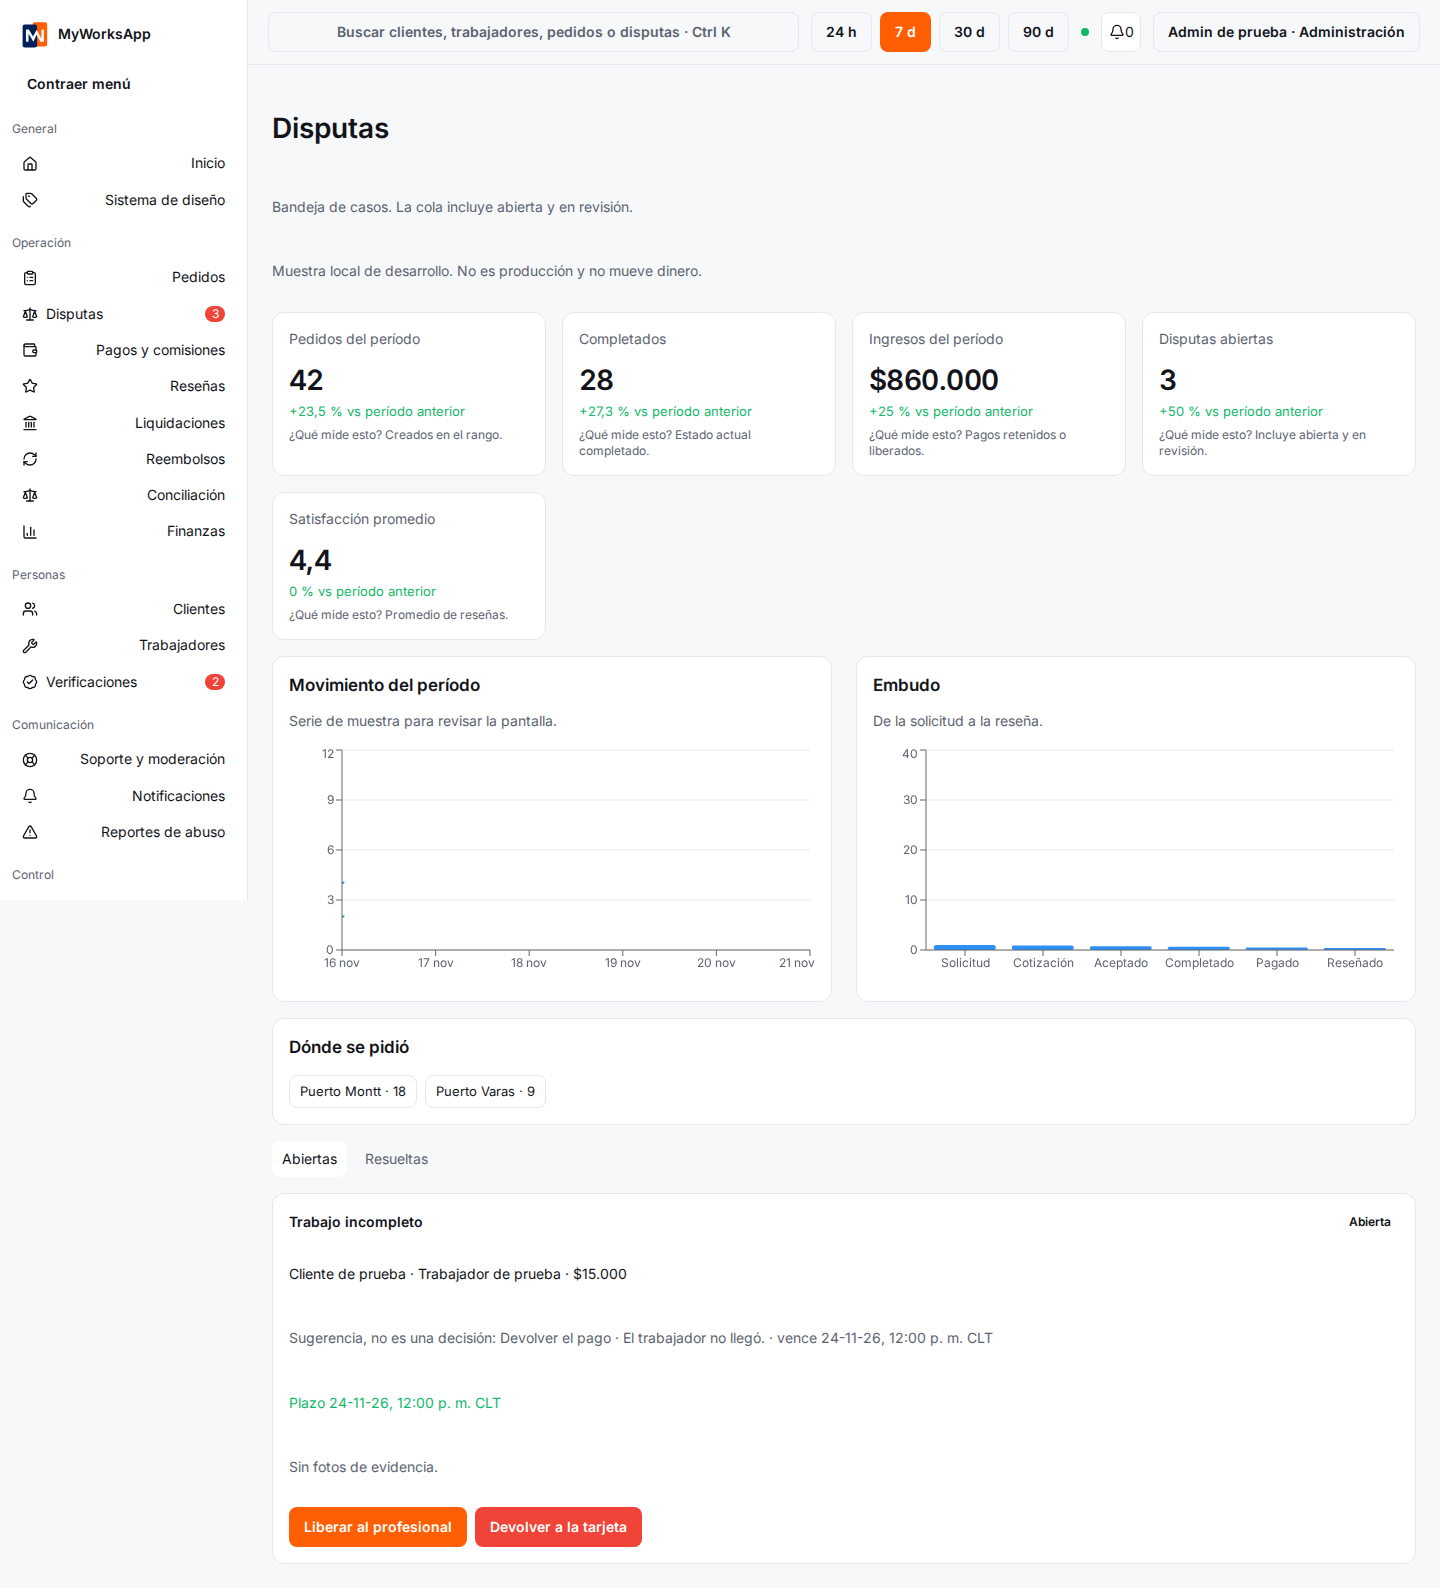
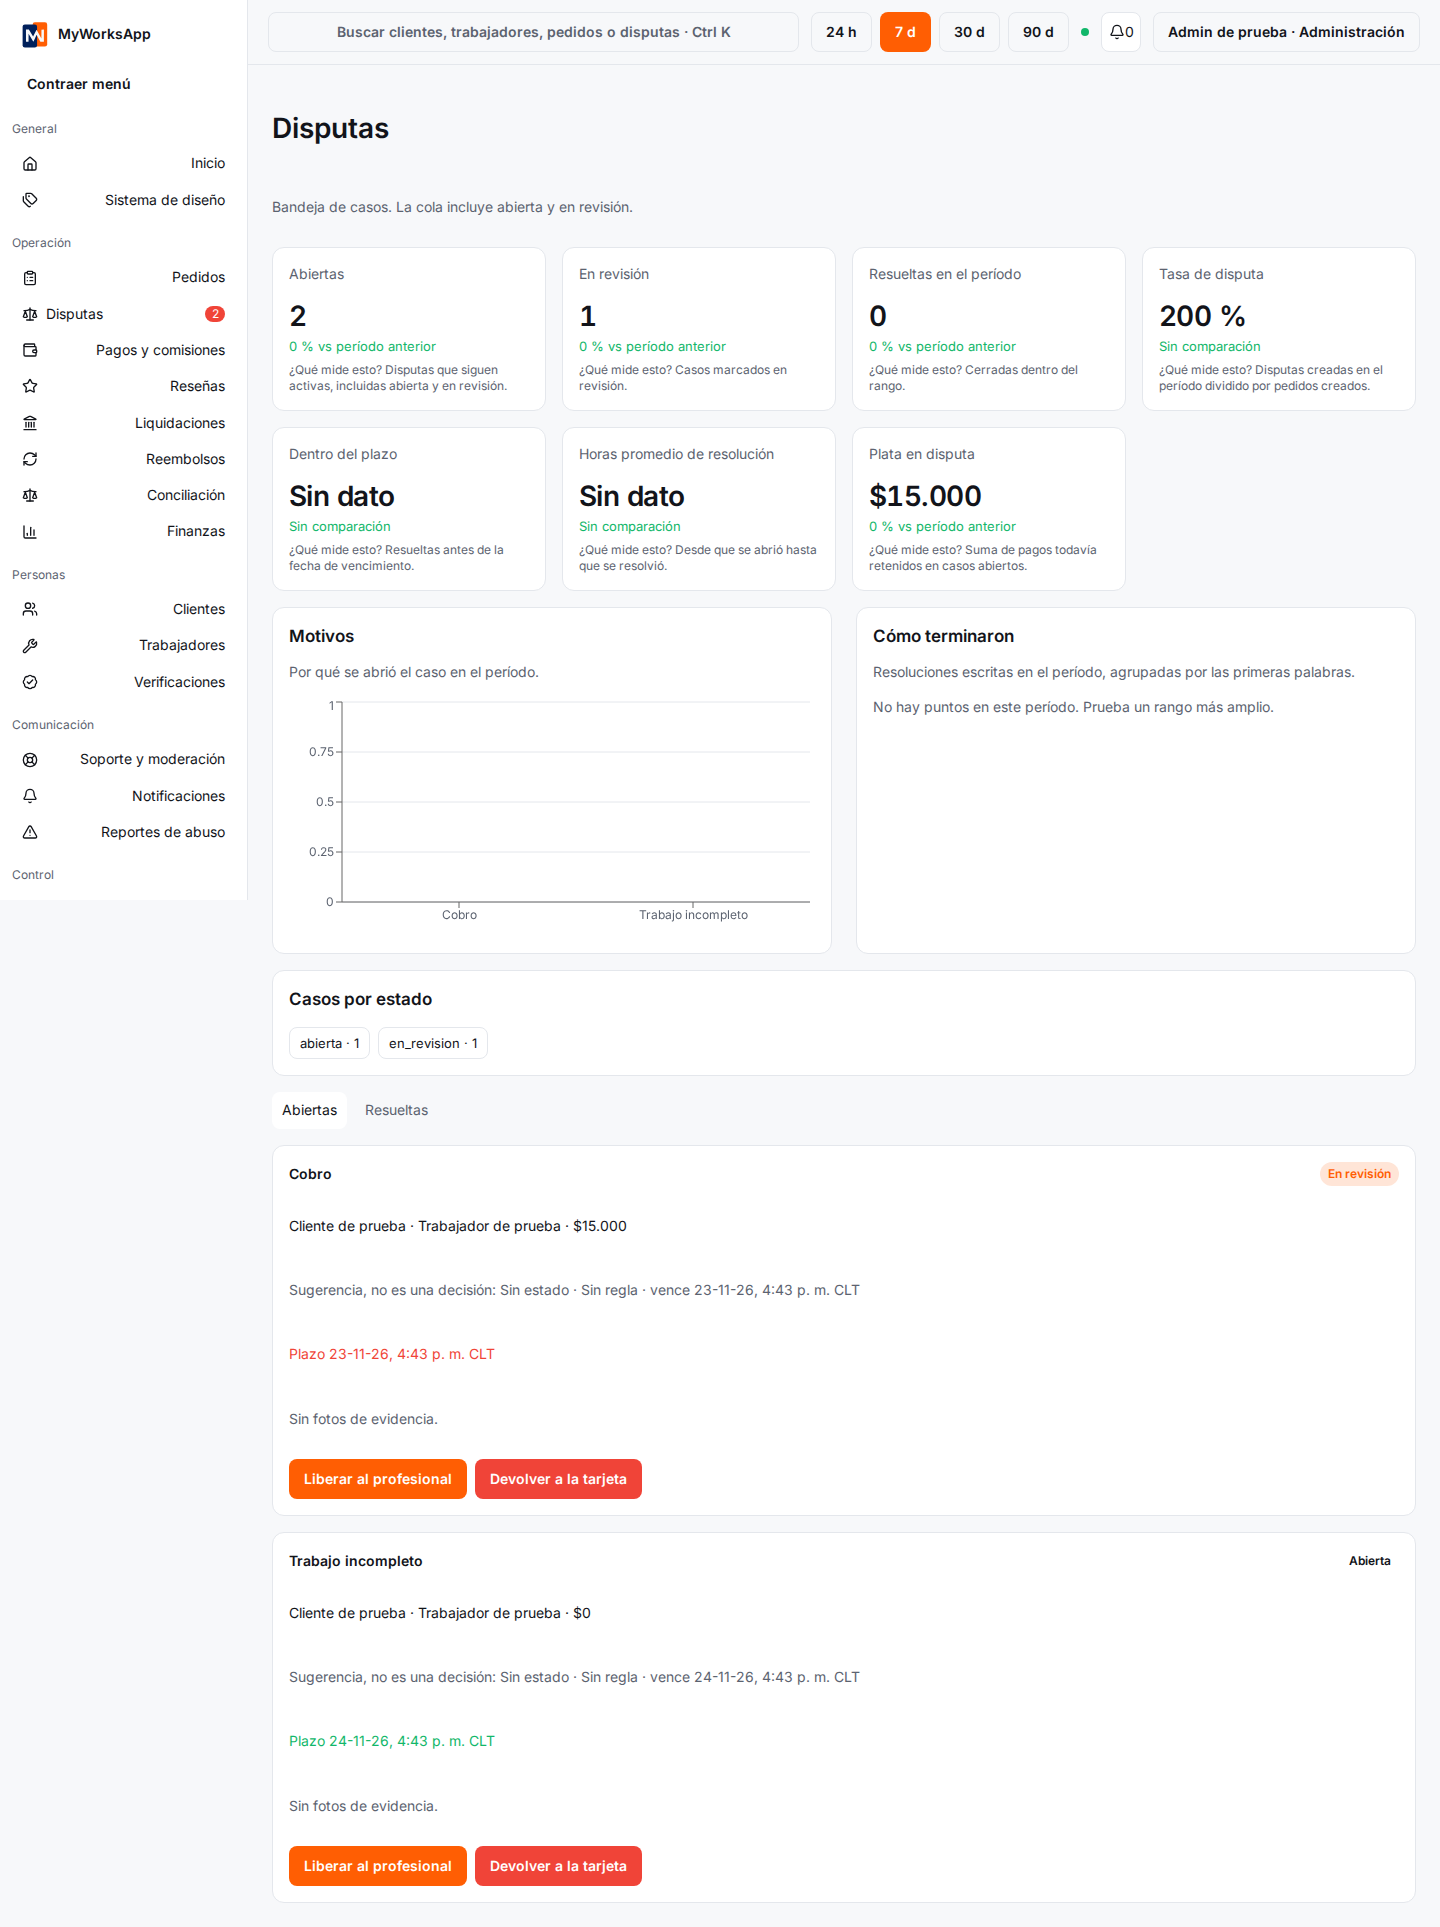
test(desktop): prueba la consola contra GoTrue y PostgREST
El admin entra con TOTP y sin captura local.
Las capturas claro y oscuro salen de esa sesión.

diff --git a/MyWorksAppProyect/myworksapp_desktop/e2e/real.spec.ts b/MyWorksAppProyect/myworksapp_desktop/e2e/real.spec.ts
@@ -1,0 +1,112 @@
+import { createHmac } from 'node:crypto';
+import { mkdir } from 'node:fs/promises';
+import AxeBuilder from '@axe-core/playwright';
+import { expect, test } from '@playwright/test';
+
+const DIR = '/agent/repos/MyWorksAppProyect/MyWorksAppProyect/docs/pruebas/consola-premium/capturas';
+
+const SECCIONES = [
+  ['/resumen', 'inicio'],
+  ['/pedidos', 'pedidos'],
+  ['/disputas', 'disputas'],
+  ['/resenas', 'resenas'],
+  ['/usuarios', 'clientes'],
+  ['/profesionales', 'trabajadores'],
+  ['/verificaciones', 'verificaciones'],
+  ['/pagos', 'pagos'],
+  ['/tickets', 'soporte'],
+  ['/notificaciones', 'notificaciones'],
+  ['/seguridad', 'seguridad'],
+  ['/informes', 'reportes'],
+  ['/auditoria', 'auditoria'],
+  ['/ajustes', 'configuracion'],
+  ['/sistema-diseno', 'sistema-diseno'],
+] as const;
+
+test.use({ video: 'off', viewport: { width: 1440, height: 900 } });
+
+test('la sesión real con aal2 recorre reseñas, pedidos, disputas y pagos', async ({ page }) => {
+  await mkdir(DIR, { recursive: true });
+  let secreto = '';
+  page.on('response', async (response) => {
+    if (!response.url().includes('/factors') || response.request().method() !== 'POST') return;
+    const body = await response.json().catch(() => null) as { totp?: { secret?: string } } | null;
+    if (body?.totp?.secret) secreto = body.totp.secret;
+  });
+
+  await page.goto('/');
+  await expect(page).not.toHaveURL(/captura=local/);
+  await page.locator('#login-email').fill('admin.consola@local.test');
+  await page.locator('#login-password').fill('Admin1234');
+  await page.getByRole('button', { name: 'Entrar' }).click();
+  await expect(page.getByRole('heading', { name: 'Segundo factor' })).toBeVisible();
+  await expect.poll(() => secreto, { timeout: 15_000 }).not.toBe('');
+  await page.getByLabel('Código de 6 dígitos').fill(codigoTotp(secreto));
+  await page.getByRole('button', { name: 'Entrar' }).click();
+  await expect(page.getByRole('heading', { name: 'Inicio' })).toBeVisible();
+  await expect(page.getByText('Muestra local de desarrollo')).toHaveCount(0);
+
+  for (const tema of ['dark', 'light'] as const) {
+    if (tema === 'light') {
+      await page.getByRole('button', { name: /Admin de prueba/ }).click();
+      await page.getByRole('button', { name: 'Tema claro' }).click();
+    }
+    for (const [ruta, nombre] of SECCIONES) {
+      await page.goto(ruta);
+      await expect(page.locator('h1').first()).toBeVisible();
+      await expect(page).not.toHaveURL(/captura/);
+      await page.screenshot({ path: `${DIR}/${nombre}-${tema}.png`, fullPage: true });
+    }
+  }
+
+  await page.goto('/resenas');
+  await page.getByRole('tab', { name: 'Negativas', exact: true }).click();
+  await expect(page).toHaveURL(/filtro=negativas/);
+  await expect(page.getByText('No llegó y el trato fue una amenaza')).toBeVisible();
+  await page.getByRole('button', { name: 'Ver detalle' }).click();
+  await expect(page.getByRole('heading', { name: 'Detalle de la reseña' })).toBeVisible();
+  await page.getByRole('button', { name: 'Cerrar' }).click();
+
+  await page.goto('/pedidos');
+  await page.getByLabel('Buscar en la tabla').fill('prueba');
+  await expect(page.getByText('Calle de prueba 10')).toBeVisible();
+
+  await page.goto('/disputas');
+  await expect(page.getByRole('strong').filter({ hasText: 'Trabajo incompleto' })).toBeVisible();
+  await page.getByRole('button', { name: 'Devolver a la tarjeta' }).first().click();
+  await page.getByLabel('Motivo (mínimo 10 caracteres)').fill('Prueba local sin pasarela de dinero');
+  await page.getByLabel('Frase de confirmación').fill('REEMBOLSAR');
+  await page.getByRole('button', { name: 'Confirmar' }).click();
+  await expect(page.getByText('Disputa actualizada.')).toHaveCount(0);
+  await expect(page.getByText(/No se pudo|no está|Failed|fetch/i).first()).toBeVisible();
+  await page.getByRole('button', { name: 'Cancelar' }).click();
+
+  await page.goto('/pagos');
+  await expect(page.getByRole('heading', { name: 'Pagos y comisiones' })).toBeVisible();
+  const liberar = page.getByRole('button', { name: 'Liberar' });
+  if (await liberar.count()) {
+    await liberar.first().click();
+    await page.getByLabel('Motivo (mínimo 10 caracteres)').fill('Prueba local sin liberar dinero');
+    await page.getByLabel('Frase de confirmación').fill('LIBERAR');
+    await page.getByRole('button', { name: 'Cancelar' }).click();
+    await expect(page.getByText('Pago liberado.')).toHaveCount(0);
+  }
+
+  const axe = await new AxeBuilder({ page }).analyze();
+  expect(axe.violations.filter((item) => item.impact === 'critical')).toEqual([]);
+});
+
+function codigoTotp(secret: string): string {
+  const alfabeto = 'ABCDEFGHIJKLMNOPQRSTUVWXYZ234567';
+  const limpio = secret.replace(/=+$/g, '').toUpperCase().replace(/[^A-Z2-7]/g, '');
+  let bits = '';
+  for (const caracter of limpio) bits += alfabeto.indexOf(caracter).toString(2).padStart(5, '0');
+  const bytes: number[] = [];
+  for (let i = 0; i + 8 <= bits.length; i += 8) bytes.push(Number.parseInt(bits.slice(i, i + 8), 2));
+  const contador = Buffer.alloc(8);
+  contador.writeBigUInt64BE(BigInt(Math.floor(Date.now() / 30_000)));
+  const hmac = createHmac('sha1', Buffer.from(bytes)).update(contador).digest();
+  const offset = hmac[hmac.length - 1] & 0xf;
+  const codigo = ((hmac[offset] & 0x7f) << 24 | hmac[offset + 1] << 16 | hmac[offset + 2] << 8 | hmac[offset + 3]) % 1_000_000;
+  return String(codigo).padStart(6, '0');
+}

diff --git a/MyWorksAppProyect/docs/CONSOLA_PREMIUM.md b/MyWorksAppProyect/docs/CONSOLA_PREMIUM.md
@@ -30,17 +30,38 @@ Cada sección parte con indicadores calculados en `consola_premium_kpis` y al me
 
 La prioridad pedida (reseñas, pedidos y disputas) tiene lista, filtro, detalle y confirmación. El resto de las 13 secciones tiene la banda de indicadores y gráficos encima de la operación que ya existía.
 
+## Verificación en Postgres de Supabase
+
+Imagen `supabase/postgres:17.6.1.071` en la red host, PostgREST 14.3 y GoTrue v2.180.0. No se usó el proyecto `wxqrfcqifkfgawrnqmnj`.
+
+Orden aplicado con `ON_ERROR_STOP`:
+
+1. `auth.jwt()`, `auth.uid()` y las tablas `storage.buckets` y `storage.objects`, que el repo no crea.
+2. Baseline en inglés `schema_remote_dump.sql`.
+3. Las cinco migraciones anteriores a `20260322000001`.
+4. El rename a español `20260914000001` a `20260914000006`, antes del archivo de Webpay.
+5. El resto de las migraciones de `main`, y al final las dos de esta rama.
+
+Las dos migraciones nuevas se volvieron a ejecutar y terminaron sin error.
+
+Con datos sintéticos y `admin_requiere_aal2=1`:
+
+- Admin con `aal2`: `is_admin()` verdadero. `consola_premium_kpis` de reseñas devolvió 6 indicadores. `consola_premium_clasificar` marcó positiva la reseña de puntualidad y alerta grave la de amenaza. `consola_premium_resenas` con filtro negativas devolvió una fila, fuente `reglas_estrellas`. Prioridad, asignación y reasignación se guardaron.
+- Un cliente, aunque tenga `aal2`, recibe `forbidden` en `consola_premium_kpis`.
+- El admin con `aal1` no es admin y recibe `forbidden` al cambiar la prioridad.
+
+`origin/feat/ia-ml` se aplicó encima, sin pushear ese merge. Las nueve migraciones `20261122200000` a `20261122260000` corrieron con `ON_ERROR_STOP`. No comparten versión con `20261123010000` ni `20261123020000`. Después se volvieron a aplicar las dos de esta rama y los KPI y el listado de reseñas siguieron respondiendo. El valor de enum que agrega ia-ml es `revisar_moderacion`, distinto de los cuatro de esta rama.
+
+El listado de reseñas falló la primera vez: `puntaje` es `integer` y la función lo devolvía sin casteo. Quedó `f.puntaje::numeric`.
+
 ## Qué no quedó
 
-- No hay Docker ni CLI de Supabase en esta máquina, así que no se levantó el stack completo (`supabase start`). Las funciones se ejecutaron en PostgreSQL 16 local con un arnés que imita `rol_consola`, `is_admin`, `texto_a_timestamptz`, `disputa_esta_activa` y `comision_servicio_clp`, y con filas sintéticas. El arnés está en `myworksapp_desktop/scripts/validar-premium.sql`. No es una migración.
-- Las capturas y el video usan `?captura=local`, que solo existe con el servidor de desarrollo. Muestran datos sintéticos y un cartel de que no es producción y no mueve dinero. No hay una réplica con el historial real.
-- La rama `feat/ia-ml` no está en este entorno. La consola llama por nombre a `asistente-solicitud` y `moderar-mensaje`. Si no responden, lo dice y no decide. El sentimiento de reseñas sale de estrellas y reglas de texto (`reglas_estrellas`). No se envía RUT, teléfono ni correo: el texto se redacta antes.
-- No hay fecha de aceptación ni de término del pedido. Esos dos indicadores quedan en «Sin dato» a propósito. La retención a 30/90 días tampoco se inventa.
-- No hay columna de respuesta pública a una reseña. La tasa de respuesta queda en «Sin dato».
+- `supabase start` completo no se usó. Postgres, PostgREST y GoTrue sí. Realtime no entra en esta verificación.
+- No hay hora de aceptación ni de término del pedido, ni respuesta pública a una reseña, ni retención a 30/90 días. Esos indicadores quedan en «Sin dato».
 - No hay tablero Kanban persistente ni mapa geográfico. La bandeja es lista con plazo, y el lugar se ve como ranking de comunas.
-- `cargo` de esta máquina es 1.83 y no puede resolver dependencias que piden la edición 2024 de Rust. El código Rust no se modificó. `npm run build` (el paso de interfaz que usa Tauri antes de empaquetar) sí compiló.
-- El servidor MCP de Semgrep no estaba disponible y no hay CLI de Semgrep instalada. No se pudo correr el análisis sobre el diff.
-- Los pagos en vivo no se probaron contra Transbank. Las pruebas confirman el diálogo y se detienen. En la captura, el aviso es «no se envió dinero».
+- `feat/ia-ml` sigue sin merge. La consola llama por nombre a `asistente-solicitud` y `moderar-mensaje`. Si no responden, lo dice y no decide. El texto que saldría se redacta: sin RUT, teléfono ni correo.
+- Los pagos en vivo no se probaron contra Transbank. El E2E real confirma el diálogo de reembolso y comprueba que no aparece «Disputa actualizada», porque `webpay-resolve-dispute` no está en este entorno. No se movió dinero.
+- `?captura=local` sigue solo para el servidor de desarrollo. Las capturas de esta pasada salen de la sesión real, sin ese parámetro.
 
 ## Migraciones para aprobar
 
@@ -59,16 +80,20 @@ En el Postgres local, con datos sintéticos del 1 al 22 de noviembre de 2026, la
 ## Pruebas
 
 - Unitarias: `npm test` en `myworksapp_desktop`. 30 pruebas, 30 en verde. Incluyen clasificación, variación, redacción de RUT y la ventana virtual de 10.000 filas.
-- Fin de extremo: `npx playwright test e2e/premium.spec.ts e2e/recorrido.spec.ts`. 3 pruebas, 3 en verde. Cada sección carga en claro y oscuro, axe sin hallazgos de impacto crítico, pedidos filtra, disputas confirma `REEMBOLSAR` sin llamar a Transbank, reseñas filtra negativas y abre el detalle, y la tabla virtual pinta menos de 40 filas de 10.000 y llega a la fila 10000.
+- Playwright de interfaz con `?captura=local`: `e2e/premium.spec.ts` y `e2e/recorrido.spec.ts`, 3 de 3 en verde.
+- Playwright contra PostgREST y GoTrue locales, sin `?captura=local`: `e2e/real.spec.ts`, 1 de 1 en verde. Entra con TOTP (aal2), filtra reseñas negativas, busca un pedido, confirma el diálogo de reembolso sin que la disputa quede actualizada, y cancela «Liberar» en pagos.
 - `npm run build`: correcto.
+- `cargo check` en `src-tauri` con Rust 1.100: correcto.
+- `npm run tauri:build -- --debug`: correcto. Binario de depuración y paquetes deb, rpm y AppImage. No se publican.
+- Semgrep 1.186 `--config auto` sobre `myworksapp_desktop/src` y las dos migraciones nuevas: 0 hallazgos. El único aviso era un JWT de prueba; ahora se arma en el test y no queda escrito de corrido.
 
 ## Capturas
 
 `docs/pruebas/consola-premium/capturas/`
 
-Claro y oscuro: `inicio`, `pedidos`, `disputas`, `resenas`, `clientes`, `trabajadores`, `verificaciones`, `pagos`, `soporte`, `notificaciones`, `seguridad`, `reportes`, `auditoria`, `configuracion`, `sistema-diseno`.
+Regeneradas desde la sesión real con aal2, en claro y oscuro: `inicio`, `pedidos`, `disputas`, `resenas`, `clientes`, `trabajadores`, `verificaciones`, `pagos`, `soporte`, `notificaciones`, `seguridad`, `reportes`, `auditoria`, `configuracion`, `sistema-diseno`.
 
-Video: `docs/pruebas/consola-premium/capturas/recorrido.webm`.
+Video corto del recorrido de desarrollo: `docs/pruebas/consola-premium/capturas/recorrido.webm`.
 
 ## Aprobaciones que necesita Mathias
 
@@ -76,4 +101,4 @@ Video: `docs/pruebas/consola-premium/capturas/recorrido.webm`.
 2. Abrir el PR de `feat/consola-premium` hacia `main`. No se abrió.
 3. Decidir si `reasignar_pedido`, la prioridad y la asignación de disputas entran a producción. Quedan en bitácora y solo las puede un administrador.
 4. Confirmar que el sentimiento siga en reglas de estrellas hasta que `feat/ia-ml` esté en el entorno. La IA, cuando exista, solo propone.
-5. Aceptar que las capturas son de la captura local de desarrollo, no de la base de Puerto Montt.
+5. Aceptar que las capturas salen de la base local con datos sintéticos, no del historial de Puerto Montt.
